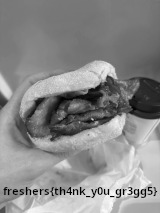
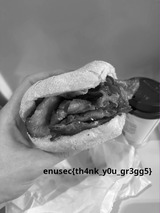
I'm lost updated for AdaScot

diff --git a/AdaScot_2025/im_lost/Readme.md b/AdaScot_2025/im_lost/Readme.md
@@ -17,8 +17,8 @@ Few red herrings in the JPG to make it more interesting.
 ## Files
 
 - Original_image: `roll_original.jpg`
-- Thumbnail : `roll_thumb`
-- Challenge file: `roll.jpg`
+- Thumbnail : `roll_thumb.jpg`
+- Challenge file: `challenge.jpg`
 
 ## Objective
 
@@ -27,9 +27,9 @@ Analyse the JPG file and extract the flag.
 ## Solution
 
 Users can use different tools to do that , easiest way is to use exiftools:
-`exiftool -b -ThumbnailImage challenge.jpg > thumb.jpg  `
+`exiftool -b -ThumbnailImage challenge.jpg > thumb.jpg`
 
-The flag is: `freshers{th4nk_y0u_gr3gg5}`
+The flag is: `enusec{th4nk_y0u_gr3gg5}`
 
 ## Learning Objectives
 
